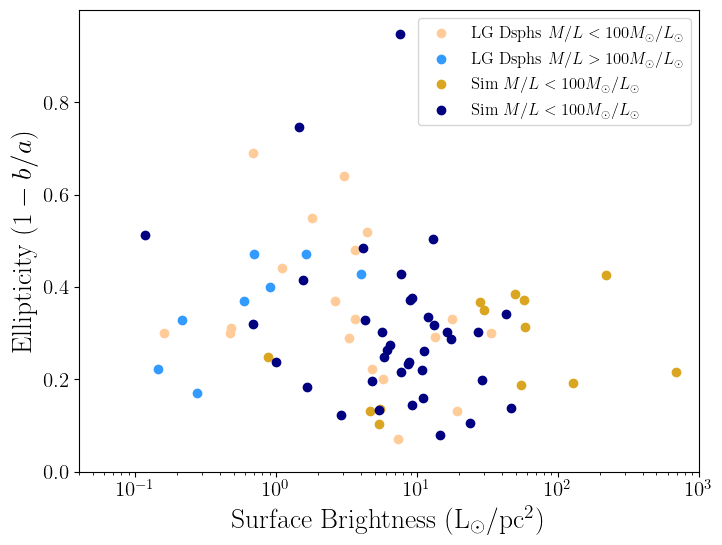
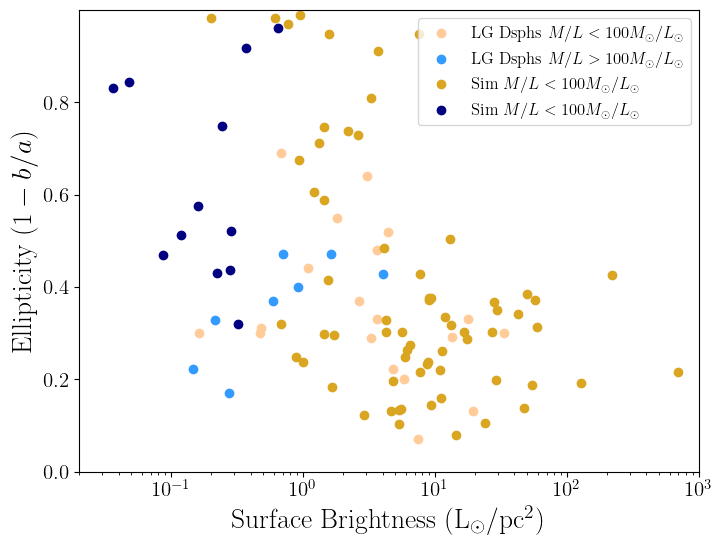
Updated Xu Plots. Updated MCMC to start walkers around True Values

diff --git a/Code/Ell_SB_Correlation.py b/Code/Ell_SB_Correlation.py
@@ -43,7 +43,7 @@ def randomorientation(base=30):
 
 
 n_itr = int(1e5)
-x = np.linspace(-1,1,500)
+xbins = np.linspace(-1,1,500)
 Xu = True
 EnvSplit = True
 Scatter = True
@@ -62,15 +62,16 @@ FIRE_x = FIRE_Data['X'].tolist()
 FIRE_y = FIRE_Data['Y'].tolist()
 
 
-ProfData,ProjData,MorphData,ShapeData,nhalo = {},{},{},{},0
+ProfData,ProjData,MorphData,ShapeData,MassData,nhalo = {},{},{},{},{},0
 for sim in sims:
     ProfData[sim]=pickle.load(open(f'../Data/{sim}.BW.Profiles.pickle','rb'))
     ProjData[sim]=pickle.load(open(f'../Data/{sim}.BW.ProjectedData.pickle','rb'))
     MorphData[sim]=pickle.load(open(f'../Data/{sim}.BW.3DShapes.pickle','rb'))
     ShapeData[sim]=pickle.load(open(f'../Data/{sim}.BW.ShapeData.pickle','rb'))
+    MassData[sim]=pickle.load(open(f'../Data/{sim}.BW.DynamicalMasses.pickle','rb'))
     nhalo+=len(ProfData[sim])
-Masses = pickle.load(open('../Data/BasicData/Marvel_DCJL.Masses.pickle','rb'))
-Lums = pickle.load(open('../Data/BasicData/Marvel_DCJL.Luminosity.pickle','rb'))
+#Masses = pickle.load(open('../Data/BasicData/Marvel_DCJL.Masses.pickle','rb'))
+#Lums = pickle.load(open('../Data/BasicData/Marvel_DCJL.Luminosity.pickle','rb'))
 
 #Get central lum_den values from array fit
 for sim in sims:
@@ -83,7 +84,14 @@ for sim in sims:
             Reff = ProfData[sim][halo]['x000y000']['Rhalf']
             indeff = np.argmin(np.abs(Reff - ProfData[sim][halo]['x000y000']['rbins']))
             lums = 10**(0.4*(4.8-ProfData[sim][halo][angle]['mags,v']))
-            ProfData[sim][halo][angle]['Lumeff'] = lums[:indeff+1].sum()
+            #ProfData[sim][halo][angle]['Lumeff'] = lums[:indeff+1].sum()
+            lumeff = lums[:indeff+1].sum()
+            ProfData[sim][halo][angle]['M/L'] = MassData[sim][halo]/lumeff
+
+# for sim in ProfData:
+#     for halo in ProfData[sim]:
+#         print(f"{sim}-{halo}: {ProfData[sim][halo]['x000y000']['M/L']}")
+
 
 #Xu Comparison
 if Xu:
@@ -140,7 +148,7 @@ if Xu:
         ax.axvspan(obs[0]-obs[1],obs[0]+obs[1],color=obs[2],alpha=.3)
 
     density = stats.gaussian_kde(r_dist)
-    ax.plot(x,density(x),c='k',linewidth=3,label='Marvel+DCJL Simulations')
+    ax.plot(xbins,density(xbins),c='k',linewidth=3,label='Marvel+DCJL Simulations')
     ax.set_ylim(bottom=0)
     ax.legend(loc='lower right',prop={'size':12})
     #plt.show()
@@ -231,11 +239,11 @@ if EnvSplit:
         ax.axvspan(obs[0]-obs[1],obs[0]+obs[1],color=obs[2],alpha=.3)
 
     density = stats.gaussian_kde(r_dist_c)
-    ax.plot(x,density(x),c='k',linewidth=3,label='Central')
+    ax.plot(xbins,density(xbins),c='k',linewidth=3,label='Central')
     density = stats.gaussian_kde(r_dist_s)
-    ax.plot(x,density(x),c='k',linewidth=3,linestyle='--',label='Satellite')
+    ax.plot(xbins,density(xbins),c='k',linewidth=3,linestyle='--',label='Satellite')
     density = stats.gaussian_kde(r_dist_b)
-    ax.plot(x,density(x),c='k',linewidth=3,linestyle=':',label='Backsplash')
+    ax.plot(xbins,density(xbins),c='k',linewidth=3,linestyle=':',label='Backsplash')
 
     ax.set_ylim(bottom=0)
     ax.legend(loc='lower left',prop={'size':12})
@@ -286,36 +294,37 @@ if Scatter:
             for angle in ProfData[sim][halo]:
                 ells.append(1-ProjData[sim][halo][angle]['b/a'])
                 sbs.append(ProfData[sim][halo][angle]['Sigma0'])
-                if ProfData[sim][halo]['x000y000']['Mdyn']/ProfData[sim][halo]['x000y000']['Lumeff']<100:
+                if ProfData[sim][halo]['x000y000']['M/L']<100:
                     ellsb.append(1-ProjData[sim][halo][angle]['b/a'])
                     sbsb.append(ProfData[sim][halo][angle]['Sigma0'])
                 else:
                     ellsd.append(1-ProjData[sim][halo][angle]['b/a'])
                     sbsd.append(ProfData[sim][halo][angle]['Sigma0'])
-            x.append(np.mean(sbs))
-            y.append(np.mean(ells))
-            xl.append(np.mean(sbs)-np.min(sbs))
-            xu.append(np.max(sbs)-np.mean(sbs))
-            yl.append(np.mean(ells)-np.min(ells))
-            yu.append(np.max(ells)-np.mean(ells))
-            if ProfData[sim][halo]['x000y000']['Mdyn']/ProfData[sim][halo]['x000y000']['Lumeff']<100:
-                bx.append(np.mean(sbsb))
-                by.append(np.mean(ellsb))
-                bxl.append(np.mean(sbsb)-np.min(sbsb))
-                bxu.append(np.max(sbsb)-np.mean(sbsb))
-                byl.append(np.mean(ellsb)-np.min(ellsb))
-                byu.append(np.max(ellsb)-np.mean(ellsb))
+            x.append(np.nanmean(sbs))
+            y.append(np.nanmean(ells))
+            xl.append(np.nanmean(sbs)-np.min(sbs))
+            xu.append(np.max(sbs)-np.nanmean(sbs))
+            yl.append(np.nanmean(ells)-np.min(ells))
+            yu.append(np.max(ells)-np.nanmean(ells))
+            #print(f"{ProfData[sim][halo]['x000y000']['M/L']}")
+            if ProfData[sim][halo]['x000y000']['M/L']<100:
+                bx.append(np.nanmean(sbsb))
+                by.append(np.nanmean(ellsb))
+                bxl.append(np.nanmean(sbsb)-np.min(sbsb))
+                bxu.append(np.max(sbsb)-np.nanmean(sbsb))
+                byl.append(np.nanmean(ellsb)-np.min(ellsb))
+                byu.append(np.max(ellsb)-np.nanmean(ellsb))
             else:
-                dx.append(np.mean(sbsd))
-                dy.append(np.mean(ellsd))
-                dxl.append(np.mean(sbsd)-np.min(sbsd))
-                dxu.append(np.max(sbsd)-np.mean(sbsd))
-                dyl.append(np.mean(ellsd)-np.min(ellsd))
-                dyu.append(np.max(ellsd)-np.mean(ellsd))
-
+                dx.append(np.nanmean(sbsd))
+                dy.append(np.nanmean(ellsd))
+                dxl.append(np.nanmean(sbsd)-np.min(sbsd))
+                dxu.append(np.max(sbsd)-np.nanmean(sbsd))
+                dyl.append(np.nanmean(ellsd)-np.min(ellsd))
+                dyu.append(np.max(ellsd)-np.nanmean(ellsd))
+            
     f,ax = plt.subplots(1,1,figsize=(8,6))
     ax.set_ylim([0,1])
-    ax.set_xlim([4e-2,1e3])
+    ax.set_xlim([2e-2,1e3])
     ax.semilogx()
     ax.set_yticks([0,.2,.4,.6,.8])
     ax.tick_params(which='both',labelsize=15)
@@ -344,7 +353,7 @@ if Scatter:
 
     f,ax = plt.subplots(1,1,figsize=(8,6))
     ax.set_ylim([0,1])
-    ax.set_xlim([4e-2,1e3])
+    ax.set_xlim([2e-2,1e3])
     ax.semilogx()
     ax.set_yticks([0,.2,.4,.6,.8])
     ax.tick_params(which='both',labelsize=15)
@@ -381,7 +390,7 @@ if DimSplit:
         for sim in ProfData:
             for halo in ProfData[sim]:
                 angle = randomorientation()
-                if ProfData[sim][halo]['x000y000']['Mdyn']/ProfData[sim][halo]['x000y000']['Lumeff']<100:
+                if ProfData[sim][halo][angle]['M/L']<100:
                     ellb.append(1-PlotDict[sim][halo][angle]['b/a'])
                     sbb.append(ProfData[sim][halo][angle]['Sigma0'])
                 else:
@@ -405,9 +414,9 @@ if DimSplit:
         ax.axvspan(obs[0]-obs[1],obs[0]+obs[1],color=obs[2],alpha=.3)
 
     density = stats.gaussian_kde(r_dist_b)
-    ax.plot(x,density(x),c='k',linewidth=3,label=r'Sim $M/L<100M_\odot/L_\odot$')
+    ax.plot(xbins,density(xbins),c='k',linewidth=3,label=r'Sim $M/L<100M_\odot/L_\odot$')
     density = stats.gaussian_kde(r_dist_d)
-    ax.plot(x,density(x),c='k',linewidth=3,linestyle='--',label=r'Sim $M/L>100M_\odot/L_\odot$')
+    ax.plot(xbins,density(xbins),c='k',linewidth=3,linestyle='--',label=r'Sim $M/L>100M_\odot/L_\odot$')
     ax.set_ylim(bottom=0)
     ax.legend(loc='lower right',prop={'size':12})
     #plt.show()

diff --git a/Code/MCMC.py b/Code/MCMC.py
@@ -75,10 +75,11 @@ def ln_prob_fn(alpha,observed_dist,bin_size):
         return -np.inf
 
 #Initial position for MCMC walkers
-def initial(nwalk=32):
+def initial(nwalk=32,B_true=.75,C_true=.5):
     pos,i = np.zeros((nwalk,4)),0
     while i<nwalk:
-        test = (normrand(0.75,.2),normrand(.5,.2),normrand(.1,.05),normrand(.1,.05))
+        #test = (normrand(0.75,.2),normrand(.5,.2),normrand(.1,.05),normrand(.1,.05))
+        test = (normrand(B_true,.15),normrand(C_true,.15),.05,.05)
         if priors(test)==1:
             pos[i]=test
             i+=1
@@ -147,7 +148,8 @@ for halo in halos:
         try:
             pool = multiprocessing.Pool(args.numproc)
             sampler = emcee.EnsembleSampler(nwalk,ndim,ln_prob_fn,args=(dists[type],.04),pool=pool)
-            sampler.run_mcmc(initial(nwalk),nstep,progress=True)
+            start_pos = initial(nwalk) if np.isnan(alpha_true[0]) else initial(nwalk,alpha_true[0],alpha_true[1])
+            sampler.run_mcmc(start_pos,nstep,progress=True)
             samples = sampler.get_chain()
             flat_samples = sampler.get_chain(discard=burnin,flat=True)
 
